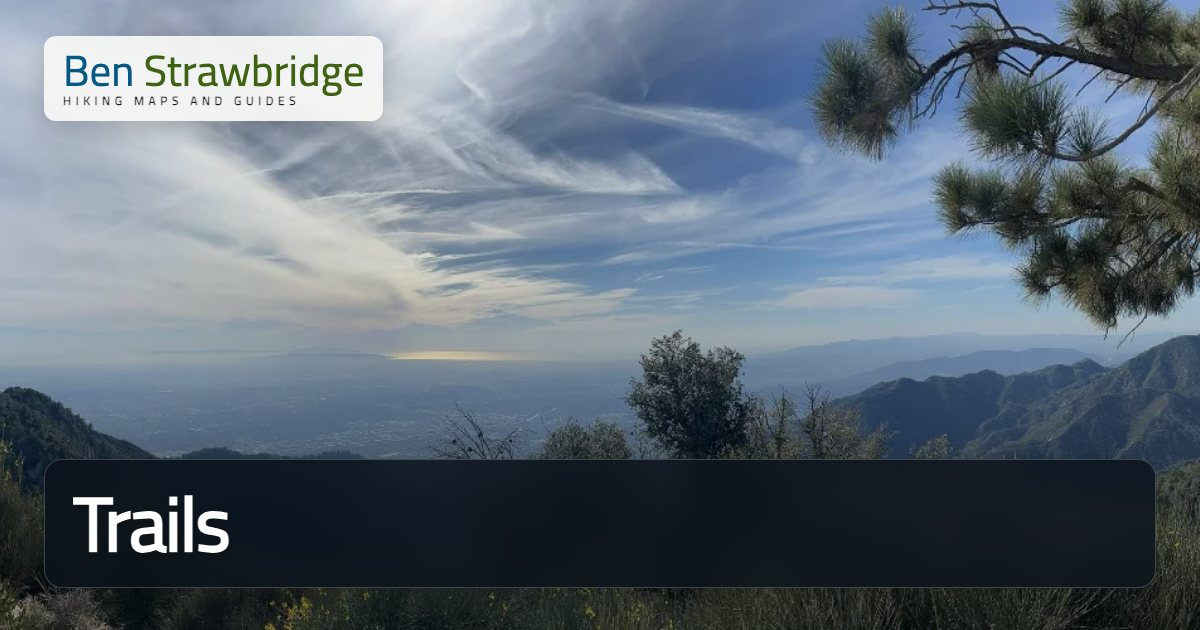
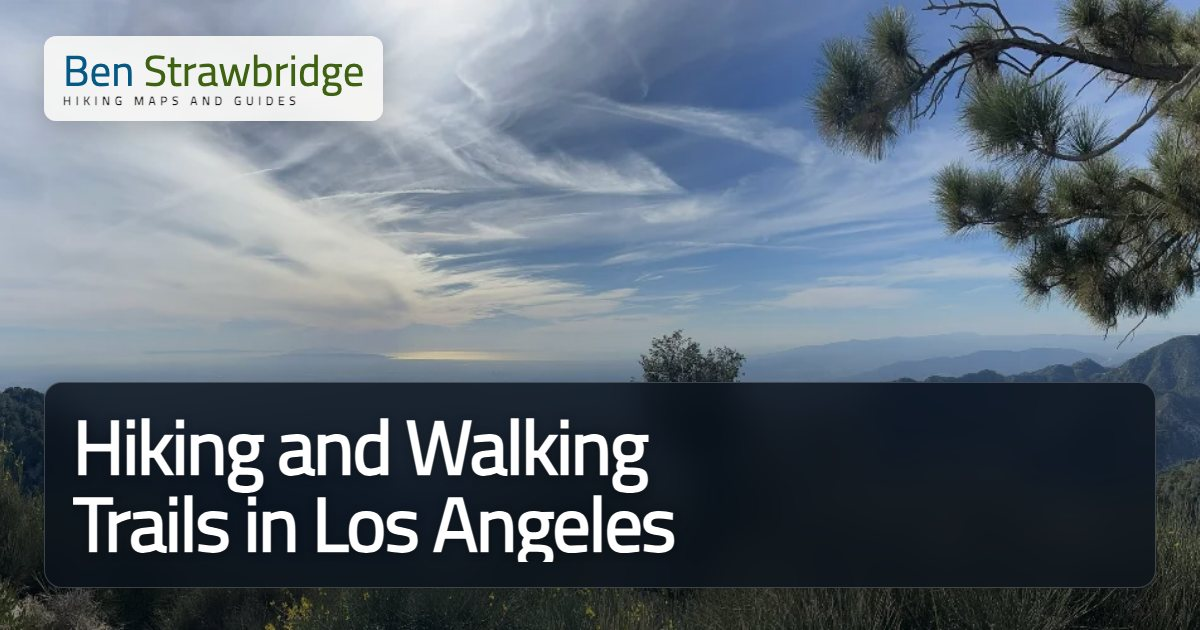
Retire the legacy hiking hub and retitle /trails/ (#114)
The old /projects/hiking/ Westchester hub and its Oberrieder stub competed
with /trails/ for the same queries. 301 the hub to /trails/ and Oberrieder to
the Playa Vista tour, which already covers it. Keep the other stops at their
URLs with real descriptions; Jet Pets now says the field is closed.

Retitle /trails/ for all of Los Angeles with a Westchester and Playa Vista
section that links the local guides, and unlink the hub from the Leaflet post.
Prune the orphaned OG cards. Bluff Trail stays put until it has a GPX for its
own /trails/ page.

Changed region(s): [[0.0308, 0.6032, 0.9867, 0.9048]]

diff --git a/content/trails/_index.md b/content/trails/_index.md
@@ -1,7 +1,7 @@
 +++
-title = "Trails"
+title = "Hiking and Walking Trails in Los Angeles"
 date = 2026-03-22
-description = "Self-guided hiking and walking tour guides for Los Angeles — with maps, parking, and stop-by-stop descriptions."
+description = "Hiking and walking trail guides for Los Angeles, from Westchester and Playa Vista to the San Gabriel Mountains, with maps and parking."
 # The card the /trails/ grid renders its children with — read by
 # themes/ryder/layouts/_default/list.html off this page. Distinct key from the
 # cascaded cardType below: this one says "what card do the items in my list
@@ -11,6 +11,7 @@ listCardType = "-trail"
  [menu.main]
   weight = 5
   identifier = "Trails"
+  name = "Trails"
 [cascade]
   # OGCard renders the social card source at /trails/<slug>/og-card.html.
   # See scripts/generate-og.mjs and docs/seo/og-cards.md.
@@ -26,4 +27,17 @@ listCardType = "-trail"
     headerBackgroundFrameOuter = "bg-gradient-to-r from-blue-600 to-violet-600 text-neutral-200"
 +++
 
-These are guides I've put together for walks I do regularly around West LA. Each one has a map, turn-by-turn stops with what to look for, and the honest answer to where to park. Most work as standalone walks or as extensions of the Bluff Creek Trail loop.
+These are the trail guides I write after walking the route myself. Each one has a map, what to look for along the way, and the honest answer to where to park. The guides start close to home on the west side of Los Angeles and reach out into the mountains.
+
+## Near Westchester and Playa Vista
+
+The walks I do most often are around Westchester, Playa Vista, and Playa del Rey.
+
+- [Bluff Creek Trail](/trails/bluff-creek-trail/): a 4-mile loop on the bluffs below LMU, with ocean and mountain views and three access points.
+- [Playa Vista Parks Walking Tour](/trails/pv-tour/): a self-guided loop through Playa Vista's parks and dog parks, including where to park for the Bluff Creek Trail.
+- [Bluff Trail](/projects/hiking/westchester-playa-vista-playa-del-rey-hiking-guide/bluff-trail/): the 1.5-mile path just west of LMU. It is a different trail from the Bluff Creek Trail.
+- [Ballona Creek Bike Path](/projects/hiking/westchester-playa-vista-playa-del-rey-hiking-guide/ballona-creek-bike-path/), [Ballona Wetlands](/projects/hiking/westchester-playa-vista-playa-del-rey-hiking-guide/ballona-wetlands/), and [Del Rey Lagoon](/projects/hiking/westchester-playa-vista-playa-del-rey-hiking-guide/del-rey-lagoon/): places to walk in Playa del Rey.
+
+## Mountains and farther out
+
+Longer hikes in the San Gabriel Mountains and beyond are listed below, with more on the way.

diff --git a/content/projects/hiking/westchester-playa-vista-playa-del-rey-hiking-guide/jet-pets/index.md b/content/projects/hiking/westchester-playa-vista-playa-del-rey-hiking-guide/jet-pets/index.md
@@ -1,50 +1,24 @@
 +++
 title = 'Jet Pets'
 date = 2024-04-15T14:21:28-07:00
-cardImage = "jet-pets_featured.webp"
-cardImageAlt = "The fenced green field at Jet Pets near LAX"
-cardImagePosition = "center"
+description = "Jet Pets in Playa del Rey used to open its fenced field to dog walkers. The property is being developed and the field is no longer open."
+lastmod = 2026-11-28
 tags = [
   "westchester",
-  "easy",
-  "short-under-2mi",
   "dog-park",
   "dog-friendly"
 ]
 hideAsideBar = true
-# draft = true
 [maps]
 lat = "33.9575"
 lon = "-118.4340"
 +++
-## Private dog friendly open space
+## The field is closed
 
-{{< lat-long-box >}}
-
-{{< leaflet 
-  id="jetpets" 
-  lat="33.95295632099991" 
-  lon="-118.4365881451951" 
-  zoom="16.0" 
-  markerLat="33.95373035244248" 
-  markerLon="-118.43425235484004" 
-  markerPopup="Jet Pets entrance" 
-  divHeight="300px"
->}}
-
-Jet Pets is an animal transportation company located in Playa Del Rey very close to LAX. They have a large field on their property that is fenced in and they keep it open most days and allow you to walk your dog there.
+Jet Pets is an animal transportation company at 9111 Falmouth Avenue in Playa del Rey, close to LAX. For years they kept a large fenced field on their property open most days and let people walk their dogs there.
 
 <!--more-->
 
-{{< picture 
-  alt="The Jet Pets sign by the entrance"
-  src="jet-pets_featured.webp"
-  title="The Jet Pets sign by the entrance"
-  overlay="images/bs_full_wordmark.png"
- >}}
+That field is gone. The property is being developed, so don't plan a dog walk here.
 
-### Location
-Jet Pets   
-9111 Falmouth Avenue  
-Playa del Rey, CA 90293  
-
+For a dog-friendly walk nearby, the [Bluff Creek Trail](/trails/bluff-creek-trail/) connects to off-leash dog parks in Playa Vista, and the [Playa Vista Parks Walking Tour](/trails/pv-tour/) covers the dog parks along the way.

diff --git a/docs/deployment/cloudflare.md b/docs/deployment/cloudflare.md
@@ -88,12 +88,14 @@ match wins, so specific rules go above wildcards. Paths only — host redirects
 
 Use a 301 here, not a Hugo `alias`, for anything that has ever ranked
 ([seo/invariants.md](../seo/invariants.md#redirects-vs-aliases)). The bluff-creek
-alias in `content/trails/bluff-creek-trail/index.md` stays until its 301 is
-confirmed live:
+alias that used to sit in `content/trails/bluff-creek-trail/index.md` is gone;
+the 301 is the only redirect. After a deploy, confirm each one:
 
 ```bash
 curl -sI https://benstrawbridge.com/trails/ | grep -i '^location'   # → https://www.benstrawbridge.com/trails/
 curl -sI https://www.benstrawbridge.com/projects/hiking/westchester-playa-vista-playa-del-rey-hiking-guide/bluff-creek-trail/ | grep -i '^location'
+curl -sI https://www.benstrawbridge.com/projects/hiking/westchester-playa-vista-playa-del-rey-hiking-guide/ | grep -i '^location'   # → /trails/
+curl -sI https://www.benstrawbridge.com/projects/hiking/westchester-playa-vista-playa-del-rey-hiking-guide/oberrieder-dog-park/ | grep -i '^location'   # → /trails/pv-tour/
 curl -sI https://www.benstrawbridge.com/projects/content-adaptors/spotify/foo/ | grep -i '^location'
 curl -sI https://www.benstrawbridge.com/listening/artists/page/2/ | grep -i '^location'   # → /listening/a-z/
 ```

diff --git a/content/posts/adding-leaflet-to-ryder-theme/index.md b/content/posts/adding-leaflet-to-ryder-theme/index.md
@@ -66,7 +66,7 @@ I made this quick and easy shortcode to get started using leaflet.js in the [Ryd
 </script>
 <div>Debug Info: ID={{ .Get "id" }}, Lat={{ .Get "lat" }}, Lon={{ .Get "lon" }}, Zoom={{ .Get "zoom" }}</div>
 ```
-- I added the shortcode to my post about [westchester hiking]({{< ref "/projects/hiking/westchester-playa-vista-playa-del-rey-hiking-guide/" >}})
+- I added the shortcode to my post about westchester hiking
 
 {{< highlight go-html-template >}}
 {{</* leaflet id="map1" lat="33.966613" lon="-118.426178" zoom="13.5" markerLat="33.9716" markerLon="-118.4363" markerPopup="Green Space right by LAX!" */>}}

diff --git a/content/projects/hiking/westchester-playa-vista-playa-del-rey-hiking-guide/ballona-wetlands/index.md b/content/projects/hiking/westchester-playa-vista-playa-del-rey-hiking-guide/ballona-wetlands/index.md
@@ -1,6 +1,8 @@
 +++
 title = 'Ballona Wetlands'
 date = 2024-04-15T14:23:44-07:00
+description = "Ballona Wetlands is a protected ecological preserve in Playa del Rey. Most of it is closed, but trails on Lincoln and Jefferson give you a look."
+lastmod = 2026-11-28
 tags = [
   "playa-del-rey",
   "easy",

diff --git a/content/projects/hiking/westchester-playa-vista-playa-del-rey-hiking-guide/del-rey-lagoon/index.md b/content/projects/hiking/westchester-playa-vista-playa-del-rey-hiking-guide/del-rey-lagoon/index.md
@@ -1,6 +1,8 @@
 +++
 title = 'Del Rey Lagoon'
 date = 2024-04-15T14:25:45-07:00
+description = "Del Rey Lagoon is a 14-acre park in Playa del Rey with a playground, ball fields, basketball courts, and a parking lot for visitors."
+lastmod = 2026-11-28
 tags = [
   "playa-del-rey",
   "easy",

diff --git a/content/projects/hiking/westchester-playa-vista-playa-del-rey-hiking-guide/ballona-creek-bike-path/index.md b/content/projects/hiking/westchester-playa-vista-playa-del-rey-hiking-guide/ballona-creek-bike-path/index.md
@@ -1,6 +1,8 @@
 +++
 title = 'Ballona Creek Bike Path'
 date = 2024-04-15T14:22:09-07:00
+description = "The Ballona Creek Bike Path follows the creek from Marina del Rey to Culver City and is part of the Park to Playa Trail."
+lastmod = 2026-11-28
 tags = [
   "playa-vista",
   "easy",

diff --git a/content/projects/hiking/westchester-playa-vista-playa-del-rey-hiking-guide/bluff-trail/index.md b/content/projects/hiking/westchester-playa-vista-playa-del-rey-hiking-guide/bluff-trail/index.md
@@ -1,6 +1,8 @@
 +++
 title = 'Bluff Trail'
 date = 2024-04-15T14:20:45-07:00
+description = "The Bluff Trail is a 1.5-mile path just west of LMU, beside One Westbluff, with ocean, marina, and Ballona Wetlands views."
+lastmod = 2026-11-28
 tags = [
   "playa-del-rey",
   "moderate",
